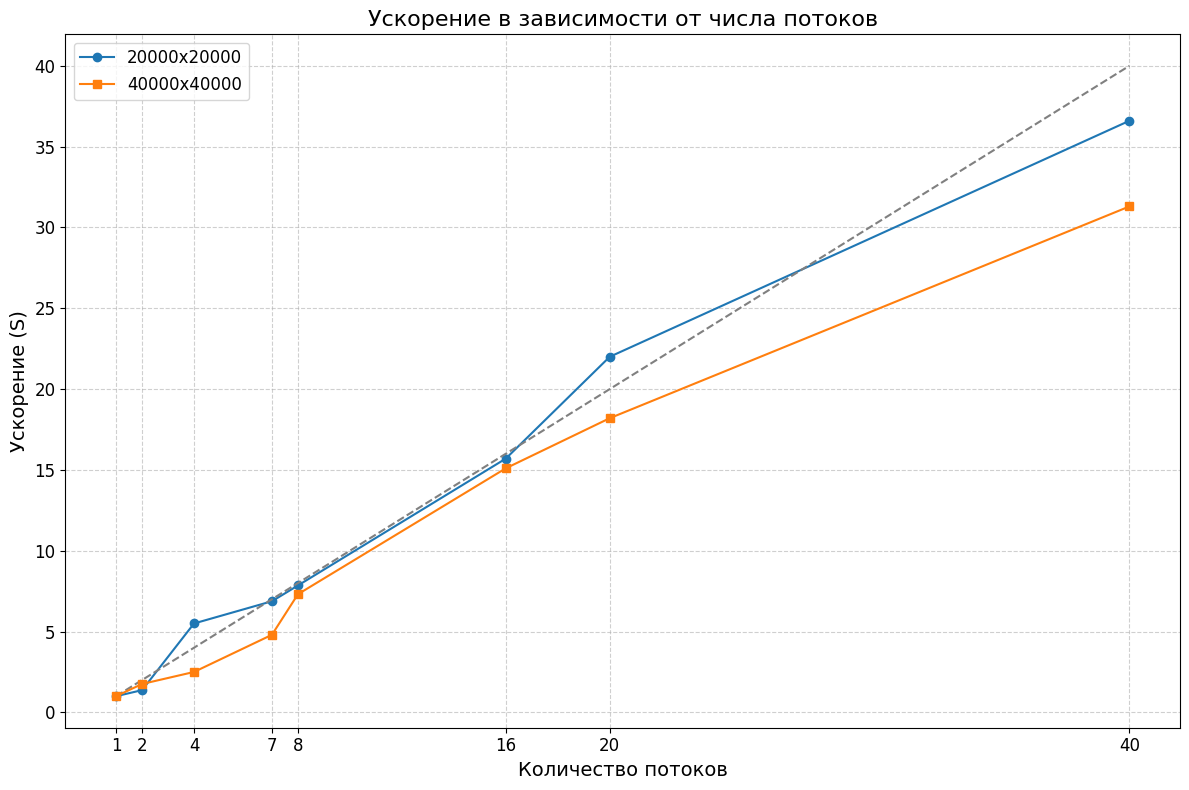
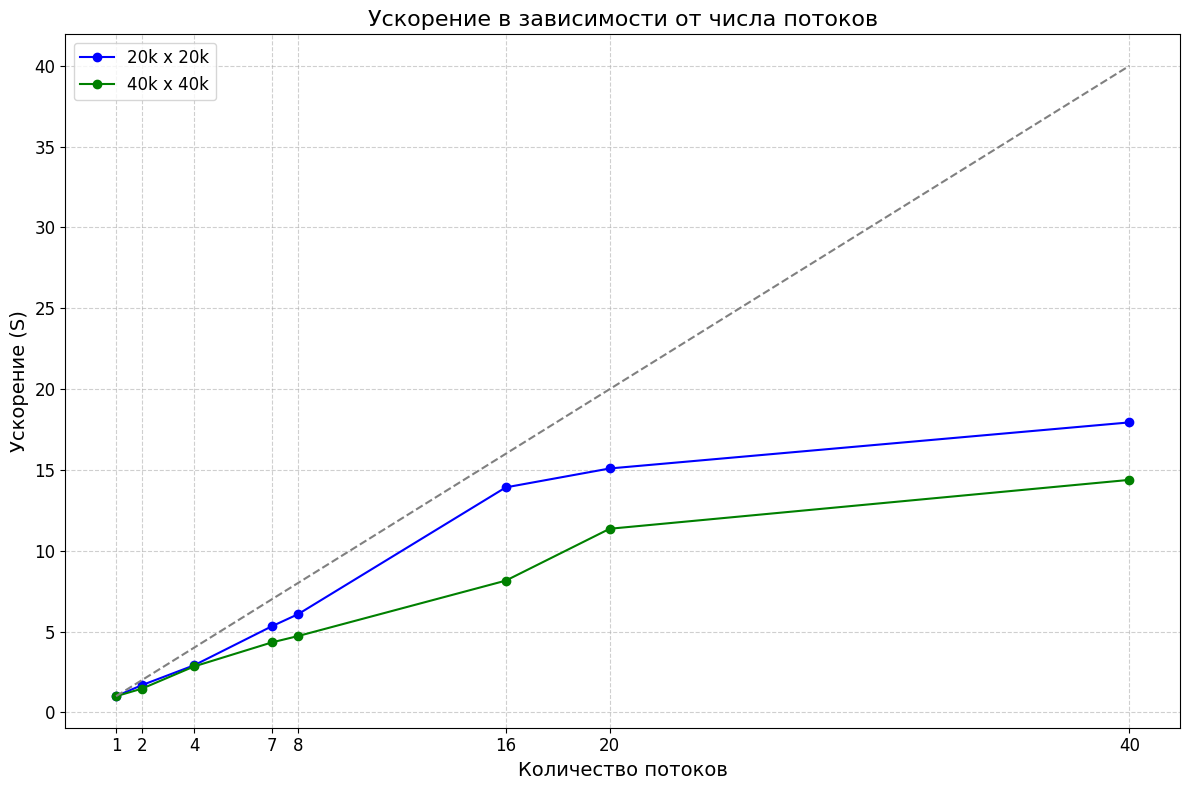
laba2

diff --git a/laba2/task3/task3.1/task3.1.cpp b/laba2/task3/task3.1/task3.1.cpp
@@ -7,15 +7,15 @@ using namespace std;
 
 void createA(vector<vector<double>> &A, int N) {
     for (int i = 0; i < N; ++i) {
-        vector<double> row(N, 1.0); 
-        row[i] = 2.0;              
+        vector<double> row(N, 1.0);
+        row[i] = 2.0;
         A.push_back(row);
     }
 }
 
 void createB(vector<double> &b, int N) {
     for (int i = 0; i < N; ++i) {
-        b.push_back(N + 1.0); 
+        b.push_back(N + 1.0);
     }
 }
 
@@ -26,24 +26,33 @@ void simpleIteration(const vector<vector<double>> &A, const vector<double> &b, v
     for (int iter = 0; iter < maxIter; ++iter) {
         double maxDiff = 0.0;
 
-        #pragma omp parallel for num_threads(numThreads)
-        for (int i = 0; i < N; ++i) {
-            double sum = 0.0;
-            for (int j = 0; j < N; ++j) {
-                if (i != j) {
-                    sum += A[i][j] * x[j];
+        #pragma omp parallel num_threads(numThreads)
+        {
+            int nthreads = omp_get_num_threads();
+            int threadid = omp_get_thread_num();
+
+            int items_per_thread = N / nthreads;
+            int lb = threadid * items_per_thread;
+            int ub = (threadid == nthreads - 1) ? N : (lb + items_per_thread);
+
+            for (int i = lb; i < ub; ++i) {
+                double sum = 0.0;
+                for (int j = 0; j < N; ++j) {
+                    if (i != j) {
+                        sum += A[i][j] * x[j];
+                    }
                 }
-            }
 
-            double delta_x = (b[i] - sum) / A[i][i];
-            x_new[i] = x[i] + t * delta_x;
+                double delta_x = (b[i] - sum) / A[i][i];
+                x_new[i] = x[i] + t * delta_x;
 
-            double localDiff = abs(x_new[i] - x[i]);
+                double localDiff = abs(x_new[i] - x[i]);
 
-            #pragma omp critical
-            {
-                if (localDiff > maxDiff) {
-                    maxDiff = localDiff;
+                #pragma omp critical
+                {
+                    if (localDiff > maxDiff) {
+                        maxDiff = localDiff;
+                    }
                 }
             }
         }
@@ -57,9 +66,9 @@ void simpleIteration(const vector<vector<double>> &A, const vector<double> &b, v
 }
 
 int main(int argc, char *argv[]) {
-    int N = 10000;       
-    double epsilon = 1e-5; 
-    int maxIter = 10000;   
+    int N = 10000;
+    double epsilon = 1e-5;
+    int maxIter = 10000;
     double t = 1.5;
     int numThreads = stoi(argv[1]);
 
@@ -71,7 +80,7 @@ int main(int argc, char *argv[]) {
     vector<double> x(N, 0.0);
 
     double start_time = omp_get_wtime();
-    simpleIteration(A, b, x, epsilon, maxIter, numThreads,t);
+    simpleIteration(A, b, x, epsilon, maxIter, numThreads, t);
     double end_time = omp_get_wtime();
 
     cout << "Кол-во потоков: " << numThreads << endl;

diff --git a/laba2/task1/task1.c b/laba2/task1/task1.c
@@ -1,10 +1,10 @@
 #include <stdio.h>
-#include <stdlib.h>
 #include <omp.h>
+#include <stdlib.h>
 
-int print_time(double ans,int potoks){
-    printf("Кол-во потоков: %d\n",potoks);
-    printf("Время: %.16f\n", ans);
+
+int print_time_of_programm(double ans){
+    printf("Время выполнения программы = %.16g\n", ans);
 }
 
 int main(int argc, char const *argv[]){   
@@ -38,7 +38,7 @@ int main(int argc, char const *argv[]){
         }
         }
         
-        double start = omp_get_wtime( );
+        double start_of_programm = omp_get_wtime( );
 
         #pragma omp parallel num_threads(potoks)
         {
@@ -57,9 +57,9 @@ int main(int argc, char const *argv[]){
         }
 
         }
-        double end = omp_get_wtime( );
+        double end_of_programm = omp_get_wtime( );
 
-        print_time(end - start,potoks);
+        print_time_of_programm(end_of_programm - start_of_programm);
 
         free(a);
         free(b);

diff --git a/laba2/task3/task3.2/task3.2.cpp b/laba2/task3/task3.2/task3.2.cpp
@@ -28,7 +28,7 @@ void simpleIteration(const vector<vector<double>> &A, const vector<double> &b, v
 
         #pragma omp parallel num_threads(numThreads) reduction(max:maxDiff)
         {
-            #pragma omp for schedule(dynamic)
+            #pragma omp for schedule(guided)
             for (int i = 0; i < N; ++i) {
                 double sum = 0.0;
                 for (int j = 0; j < N; ++j) {

diff --git a/laba2/otchet.md b/laba2/otchet.md
@@ -21,14 +21,16 @@ ID_LIKE : Debian
 
 | T1  | S1  | T2   | S2   | T4   | S4   | T7   | S7    | T8   | S8    | T16  | S16   | T20  | S20   | T40  | S40   |
 |-----|-----|------|------|------|------|------|-------|------|-------|------|-------|------|-------|------|-------|
-| ~1.1 | 1   | ~0.8  | 1.375| ~0.28 | 5.5  | ~0.16 | 6.875 | ~0.14 | 7.85  | ~0.07 | 15.7  | ~0.05 | 22    | ~0.03 | 36.6 |
+|~1.7902|1|~1.06|1.688|~0.6139|2.91|~0.3356|5.33|~0.2948|6.07|~0.1286|13.92|~0.1186|15.09|~0.0905|17.94|
 
 ### 40000:
 | T1  | S1  | T2   | S2   | T4   | S4   | T7   | S7    | T8   | S8    | T16  | S16   | T20  | S20   | T40  | S40   |
 |-----|-----|------|------|------|------|------|-------|------|-------|------|-------|------|-------|------|-------|
-|~4.39 |1|~2.5 |1.756| ~1.7|2,5| ~0.9 |4.8|~0.6 |7.31| ~0.29|15.1|~0.24|18,2|~0.14|31.3|
+|~6.144|1|~4.178|1.47|~2.156|2.84|~1.416|4.33|~1.3001|4.72|~0.7537|8.151|~0.5405|11.36|~0.395|14.384|
 
 ![alt text](img/image.png)
+
+### Вывод: до 16 потоков заметно около-линейное ускорение, после ускорение падает
 
 # Отчет по заданию 2
 | T1  | S1  | T2   | S2   | T4   | S4   | T7   | S7    | T8   | S8    | T16  | S16   | T20  | S20   | T40  | S40   |
@@ -36,6 +38,8 @@ ID_LIKE : Debian
 |~0.47|1|~0.247|1.9|~0.13|3.61|~0.0809|5.809|~0.074|6.35|~0.0416|11.29|~0.0364|12.91|~0.0325|14.461|
 
 ![alt text](img/image1.png)
+
+### Вывод: до 16 потоков заметно около-линейное ускорение, после ускорение падает
 
 # Отчет по заданию 3
 
@@ -47,16 +51,38 @@ Eps = 1e-5
 
 t = 1.5
 
-### 1 Вариант
+### omp for
 
 | T1  | S1  | T2   | S2   | T4   | S4   | T7   | S7    | T8   | S8    | T16  | S16   | T20  | S20   | T40  | S40   |
 |-----|-----|------|------|------|------|------|-------|------|-------|------|-------|------|-------|------|-------|
 |~53.916|1|~28.3103|1.904|~16.8303|3.203|~8.4521|6.379|~7.45906|7.22|~3.72083|14.4903|~3.00962|17.914|~2.11936|25.439|
 
-### 2 Вариант
+### Общий for
 
 | T1  | S1  | T2   | S2   | T4   | S4   | T7   | S7    | T8   | S8    | T16  | S16   | T20  | S20   | T40  | S40   |
 |-----|-----|------|------|------|------|------|-------|------|-------|------|-------|------|-------|------|-------|
 |~54.3133|1|~27.8923|1.947|~14.3801|3.776|~8.2386|6.592|~7.36419|7.375|~3.72208|14.592|~2.99563|18.1308|~1.83907|29.533|
 
 ![alt text](img/image2.png)
+
+#### Вывод: до 20 потоков заметно около-линейное ускорение, после ускорение падает
+
+### dynamic
+
+| T1  | S1  | T2   | S2   | T4   | S4   | T7   | S7    | T8   | S8    | T16  | S16   | T20  | S20   | T40  | S40   |
+|-----|-----|------|------|------|------|------|-------|------|-------|------|-------|------|-------|------|-------|
+|~53.916|1|~28.3103|1.904|~16.8303|3.203|~8.4521|6.379|~7.45906|7.22|~3.72083|14.4903|~3.00962|17.914|~2.11936|25.439|
+
+### static
+
+| T1  | S1  | T2   | S2   | T4   | S4   | T7   | S7    | T8   | S8    | T16  | S16   | T20  | S20   | T40  | S40   |
+|-----|-----|------|------|------|------|------|-------|------|-------|------|-------|------|-------|------|-------|
+|~54.54|1|~30.01|1.8|~15.09|3.6|~9.02|6.04|~7.62|7.15|~3.79|14.39|~3.608|15.11|~3.45|15.8|
+
+### guided
+
+| T1  | S1  | T2   | S2   | T4   | S4   | T7   | S7    | T8   | S8    | T16  | S16   | T20  | S20   | T40  | S40   |
+|-----|-----|------|------|------|------|------|-------|------|-------|------|-------|------|-------|------|-------|
+|~56.72|1|~30.09|1.8|~16.06|3.53|~8.44|6.72|~7.4|7.66|~3.9|14.54|~3.1|18.2|~2.8|20.25|
+
+![alt text](img/image4.png)
